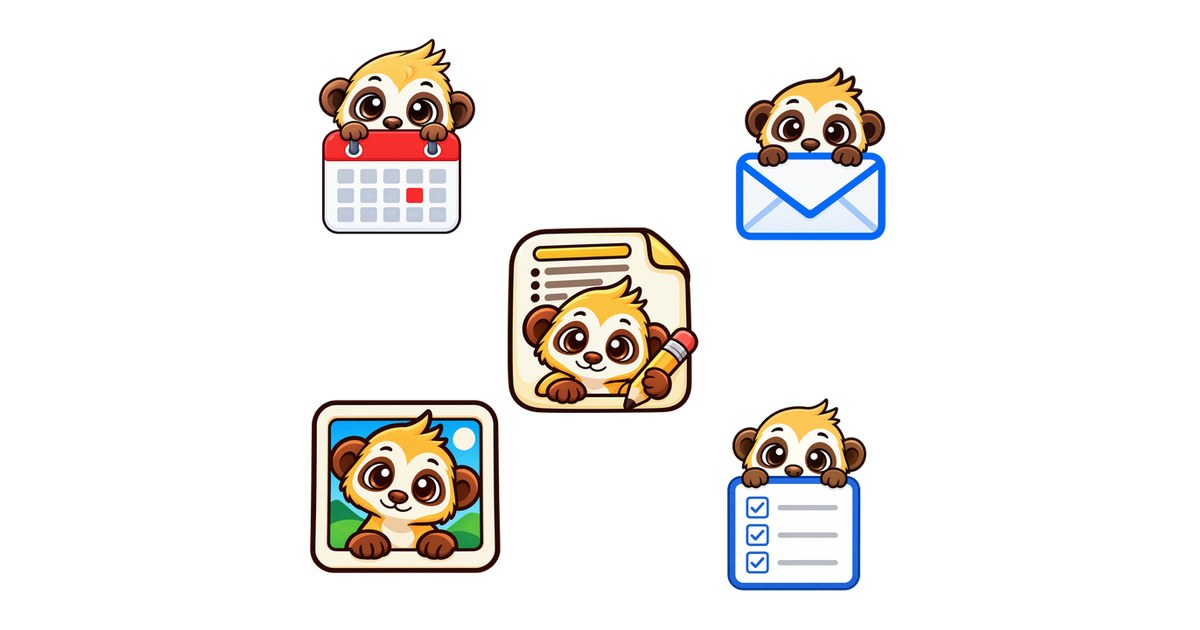
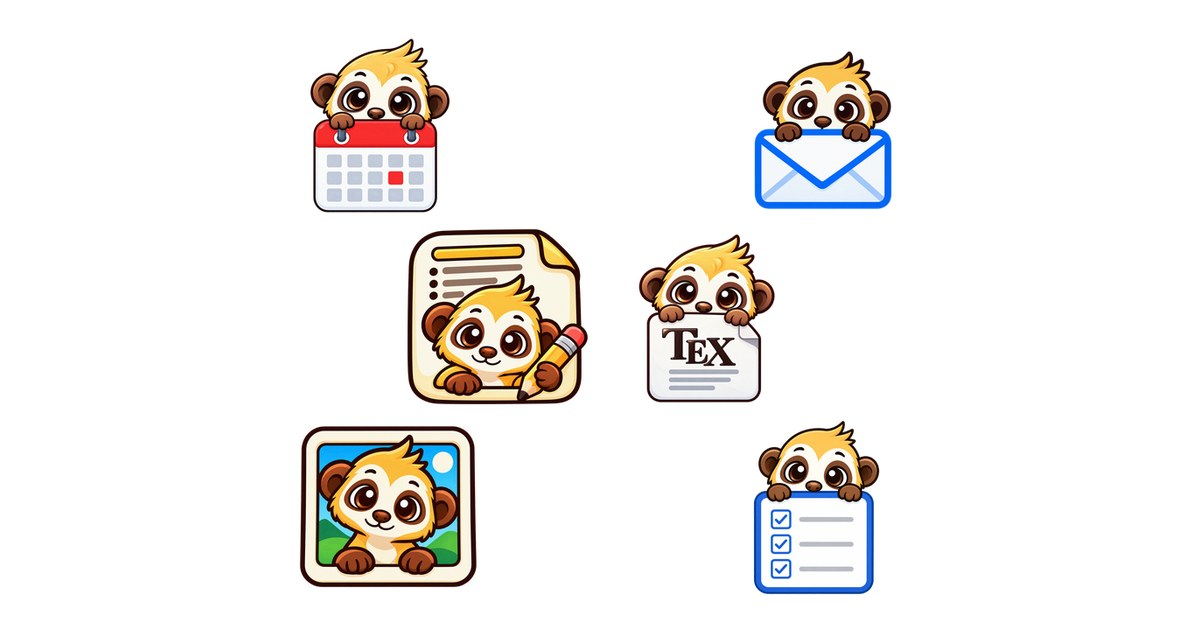
Adds meertex

Changed region(s): [[0.2467, 0.0603, 0.7708, 0.9651]]

diff --git a/public/index.html b/public/index.html
@@ -4,7 +4,7 @@
   <meta charset="utf-8" />
   <meta name="viewport" content="width=device-width, initial-scale=1, viewport-fit=cover" />
   <title>meerverse: tools for people who have too much of everything</title>
-  <meta name="description" content="meerverse is the meer* family of open-source, self-hostable apps: meercal for calendars, meerail for mail, meerato for tasks, meerpic for photos and meerpad for notes, each keeping your data in PostgreSQL. meerink is on the way." />
+  <meta name="description" content="meerverse is the meer* family of open-source, self-hostable apps: meercal for calendars, meerail for mail, meerato for tasks, meerpic for photos, meerpad for notes and meertex for papers, each keeping your data in PostgreSQL. meerink is on the way." />
   <meta name="theme-color" content="#2185d0" />
   <link rel="canonical" href="https://meerverse.com/" />
   <link rel="icon" type="image/png" sizes="32x32" href="/img/brand-32.png" />
@@ -16,7 +16,7 @@
   <meta property="og:site_name" content="meerverse" />
   <meta property="og:url" content="https://meerverse.com/" />
   <meta property="og:title" content="meerverse: tools for people who have too much of everything" />
-  <meta property="og:description" content="Mail, calendar, tasks, photos and notes from one family of open-source meerkats. Everything in PostgreSQL, everything on GitHub." />
+  <meta property="og:description" content="Mail, calendar, tasks, photos, notes and papers from one family of open-source meerkats. Everything in PostgreSQL, everything on GitHub." />
   <meta property="og:image" content="https://meerverse.com/img/og.jpg" />
   <meta property="og:image:width" content="1200" />
   <meta property="og:image:height" content="630" />
@@ -103,6 +103,20 @@
           "license": "https://www.gnu.org/licenses/agpl-3.0.html",
           "sameAs": ["https://github.com/ribalba/meerpad"]
         }
+      },
+      {
+        "@type": "ListItem",
+        "position": 6,
+        "item": {
+          "@type": "SoftwareApplication",
+          "name": "meertex",
+          "url": "https://meertex.com/",
+          "description": "A LaTeX workspace for papers and their coauthors: a sync client keeps a local folder in step with the server within a second, coauthors edit the same document in the browser with live cursors and a compiled PDF, and every paper carries its venue, its deadlines in the venue's time zone, fixed versions of what was handed in, GitHub-style reviews and a check of every reference against doi.org, Crossref and Semantic Scholar. Hosted at meertex.com or self-hosted.",
+          "applicationCategory": "ProductivityApplication",
+          "isAccessibleForFree": true,
+          "license": "https://www.gnu.org/licenses/agpl-3.0.html",
+          "sameAs": ["https://github.com/ribalba/meertex"]
+        }
       }
     ]
   }
@@ -138,14 +152,15 @@
 
     <!-- Hero -->
     <section class="landing-hero">
-      <img src="/img/family.webp" width="680" height="640" class="landing-logo is-family"
-           alt="Five cartoon meerkats: one peeking over a calendar, one over an envelope, one out of a picture frame, one over a checklist and, in the middle, one holding a pencil in front of a page of notes." />
+      <img src="/img/family.webp" width="720" height="640" class="landing-logo is-family"
+           alt="Six cartoon meerkats: one peeking over a calendar, one over an envelope, one holding a pencil in front of a page of notes, one over a page of TeX, one out of a picture frame and one over a checklist." />
       <div class="landing-hero-copy">
         <h1 class="landing-title">Tools for people who have too much of&nbsp;everything.</h1>
         <p class="landing-subtitle">
           Twenty calendars, a mailbox ten years deep, a to-do list for every part
-          of your life, a photo library too big for any photo app and notes in more
-          places than you can remember. The meer* apps
+          of your life, a photo library too big for any photo app, notes in more
+          places than you can remember and papers whose coauthors never see the
+          latest version. The meer* apps
           are a family of open-source programs, one for each of those, built for
           the person the defaults stopped working for. Everything lands in
           PostgreSQL, where you can query it. Each app stands on its own, and
@@ -162,7 +177,7 @@
     <section id="apps" class="landing-features">
       <h2 class="landing-section-title">The apps</h2>
       <p class="landing-section-lede">
-        Five programs you can run today. Each has its own site and its own
+        Six programs you can run today. Each has its own site and its own
         repository, and all of them are open source under the AGPL.
       </p>
 
@@ -318,6 +333,37 @@
             </div>
           </div>
         </article>
+        <article class="landing-card landing-app">
+          <div class="landing-card-body">
+            <div class="landing-app-head">
+              <img class="landing-app-logo" src="/img/apps/meertex.webp" width="182" height="192" alt="" />
+              <div>
+                <span class="landing-app-kind">Papers</span>
+                <h3>meertex <span class="landing-badge">New</span></h3>
+              </div>
+            </div>
+            <p class="landing-app-tagline">A LaTeX workspace where coauthors see every save live.</p>
+            <p>
+              A paper is a normal folder on your computer, edited in VS Code, vim
+              or together with Claude, and every save reaches your coauthors
+              within a second. They write in the same document in the browser,
+              with live cursors and a PDF that compiles as they type. Each paper
+              knows its venue and its deadlines in the venue's time zone, keeps
+              the versions you handed in, and gets reviews that show how each
+              comment was addressed. Before you submit, it looks every reference
+              up and finds the citations that do not exist.
+            </p>
+            <div class="landing-chips">
+              <span class="landing-chip"><i class="sync alternate icon"></i>Your folder, live</span>
+              <span class="landing-chip"><i class="stopwatch icon"></i>Deadlines in AoE</span>
+              <span class="landing-chip"><i class="check double icon"></i>Reference check</span>
+            </div>
+            <div class="landing-app-links">
+              <a href="https://meertex.com" target="_blank" rel="noopener"><i class="globe icon"></i>meertex.com</a>
+              <a href="https://github.com/ribalba/meertex" target="_blank" rel="noopener"><i class="github icon"></i>ribalba/meertex</a>
+            </div>
+          </div>
+        </article>
       </div>
 
       <!-- One wide screenshot per app, as a tour. The controls are built by the
@@ -394,6 +440,17 @@
                   <img src="/img/screenshots/meerpad-page.webp" width="2880" height="1800" loading="lazy" decoding="async"
                        alt="The meerpad window: workspaces and a page tree in the sidebar, and a page with a cover, a heading, to-dos, a callout and a code block." />
                 </picture>
+                <span class="landing-shot-zoom"><i class="expand icon"></i></span>
+              </button>
+            </li>
+
+            <li class="landing-slide" data-label="meertex"
+                data-note="meertex's editor: a coauthor's cursor with a name tag, citation keys completed with their titles, and the PDF compiled a moment ago.">
+              <button type="button" class="landing-shot-btn"
+                      data-full="/img/screenshots/meertex-editor.webp"
+                      data-caption="&lt;strong&gt;meertex, the editor.&lt;/strong&gt; Lena writes the introduction while Tomás has the same file open. The &lt;code&gt;\cite&lt;/code&gt; completion lists every key of the paper's .bib with its title, and the PDF on the right compiled a moment ago.">
+                <img src="/img/screenshots/meertex-editor.webp" width="1920" height="1200" loading="lazy" decoding="async"
+                     alt="The meertex editor: the file tree, the introduction of a paper with a coauthor's cursor labelled Tomás Ibarra, a completion list of citation keys with their titles, and the compiled two-column PDF on the right." />
                 <span class="landing-shot-zoom"><i class="expand icon"></i></span>
               </button>
             </li>
@@ -568,8 +625,8 @@
             <p>
               All of it is AGPL and on GitHub, and the install is Docker Compose:
               for meerail and meercal, one script that asks what it needs and
-              pulls the published images. meerato and meerpad are also hosted
-              services, if you would rather not run anything at all.
+              pulls the published images. meerato, meerpad and meertex are also
+              hosted services, if you would rather not run anything at all.
             </p>
           </div>
         </article>
@@ -618,8 +675,8 @@
     <footer class="landing-footer">
       <p>
         <strong>meerverse</strong> is the meer* universe: a family of
-        open-source meerkats for mail, calendars, tasks, photos and notes,
-        with a network on the way.
+        open-source meerkats for mail, calendars, tasks, photos, notes and
+        papers, with a network on the way.
       </p>
       <p class="landing-footer-apps">
         <a href="https://meercal.com" target="_blank" rel="noopener"><img src="/img/apps/meercal.webp" width="155" height="192" alt="" />meercal</a>
@@ -628,6 +685,7 @@
         <a href="https://meerpic.com" target="_blank" rel="noopener"><img src="/img/apps/meerpic.webp" width="192" height="175" alt="" />meerpic</a>
         <a href="https://meerink.com" target="_blank" rel="noopener"><img src="/img/apps/meerink.webp" width="192" height="191" alt="" />meerink</a>
         <a href="https://meerpad.com" target="_blank" rel="noopener"><img src="/img/apps/meerpad.webp" width="192" height="187" alt="" />meerpad</a>
+        <a href="https://meertex.com" target="_blank" rel="noopener"><img src="/img/apps/meertex.webp" width="182" height="192" alt="" />meertex</a>
       </p>
       <p>
         <a href="https://github.com/ribalba/meerverse" target="_blank" rel="noopener">

diff --git a/public/css/site.css b/public/css/site.css
@@ -895,6 +895,8 @@ html, body {
   justify-content: center;
   gap: .4rem 1.2rem;
 }
+/* Seven apps do not fit the 640px of a footer line. */
+.landing-footer .landing-footer-apps { max-width: 880px; }
 .landing-footer-apps a {
   display: inline-flex;
   align-items: center;

diff --git a/tools/build_assets.py b/tools/build_assets.py
@@ -5,7 +5,7 @@ The meerverse site owns no artwork of its own yet: every logo and screenshot
 belongs to one of the apps, and this pulls them in from checkouts that sit next
 to this repo (../meercal, ../meerail, ../meerato, ../meerpic, ../meerink), so a
 new logo or a re-shot screenshot there is one command away from being here.
-meerpad joined them (../meerpad).
+meerpad joined them (../meerpad), and then meertex (../meertex).
 
     python3 tools/build_assets.py
 
@@ -38,6 +38,7 @@ LOGOS = {
     "meerpic": "meerpic/app/static/img/logo.png",
     "meerink": "meerink/app/static/img/logo.png",
     "meerpad": "meerpad/app/static/img/logo.png",
+    "meertex": "meertex/app/static/img/logo-512.png",
 }
 
 # (output name, source, dark source or None). Screenshots are 2880x1800 in the
@@ -51,6 +52,8 @@ SHOTS = [
      "meerpic/website/public/img/screenshots/grid-dark.webp"),
     ("meerpad-page", "meerpad/app/static/img/screenshots/page.png",
      "meerpad/app/static/img/screenshots/page-dark.png"),
+    # meertex is light only, and its screenshots are 1920x1200, also 16:10.
+    ("meertex-editor", "meertex/app/static/img/screenshots/editor.webp", None),
 ]
 MEERATO_SHOT = "meerato/app/static/img/screenshots/overview.webp"
 
@@ -92,21 +95,23 @@ def app_logos() -> None:
 
 
 def family() -> Image.Image:
-    """The five shipping apps' meerkats as one group, for the hero: calendar and
-    mail above, photos and tasks below, and meerpad's in the middle, drawn last
-    so it sits in front. Sized and placed so no two of them touch."""
-    w, h = 680, 640
+    """The six shipping apps' meerkats as one group, for the hero, in three
+    staggered rows: calendar and mail above, notes and papers in the middle,
+    photos and tasks below. Sized and placed so no two of them touch."""
+    w, h = 720, 640
     canvas = Image.new("RGBA", (w, h), (0, 0, 0, 0))
-    cal = fit_height(load(LOGOS["meercal"]), 225)
-    mail = fit_height(load(LOGOS["meerail"]), 200)
-    pic = fit_height(load(LOGOS["meerpic"]), 200)
-    todo = fit_height(load(LOGOS["meerato"]), 222)
-    pad = fit_height(load(LOGOS["meerpad"]), 212)
-    canvas.alpha_composite(cal, (18, 4))
-    canvas.alpha_composite(mail, (w - mail.width - 12, 36))
-    canvas.alpha_composite(pic, (8, h - pic.height - 24))
-    canvas.alpha_composite(todo, (w - todo.width - 34, h - todo.height - 4))
-    canvas.alpha_composite(pad, ((w - pad.width) // 2 + 4, (h - pad.height) // 2 + 6))
+    cal = fit_height(load(LOGOS["meercal"]), 200)
+    mail = fit_height(load(LOGOS["meerail"]), 182)
+    pad = fit_height(load(LOGOS["meerpad"]), 200)
+    tex = fit_height(load(LOGOS["meertex"]), 192)
+    pic = fit_height(load(LOGOS["meerpic"]), 186)
+    todo = fit_height(load(LOGOS["meerato"]), 200)
+    canvas.alpha_composite(cal, (28, 4))
+    canvas.alpha_composite(mail, (w - mail.width - 26, 18))
+    canvas.alpha_composite(pad, (w // 2 - pad.width - 14, 222))
+    canvas.alpha_composite(tex, (w // 2 + 18, 228))
+    canvas.alpha_composite(pic, (16, h - pic.height - 8))
+    canvas.alpha_composite(todo, (w - todo.width - 40, h - todo.height))
     save_webp(canvas, OUT / "family.webp", quality=88)
     return canvas
 

diff --git a/README.md b/README.md
@@ -11,6 +11,7 @@ shows the whole family in one place.
 | meerpic | Photos | [meerpic.com](https://meerpic.com) | [ribalba/meerpic](https://github.com/ribalba/meerpic) |
 | meerink | Professional network (coming soon) | [meerink.com](https://meerink.com) | [ribalba/meerink](https://github.com/ribalba/meerink) |
 | meerpad | Notes | [meerpad.com](https://meerpad.com) | [ribalba/meerpad](https://github.com/ribalba/meerpad) |
+| meertex | Papers | [meertex.com](https://meertex.com) | [ribalba/meertex](https://github.com/ribalba/meertex) |
 
 A static page, a stylesheet and some images, served by nginx. Nothing to
 build.
